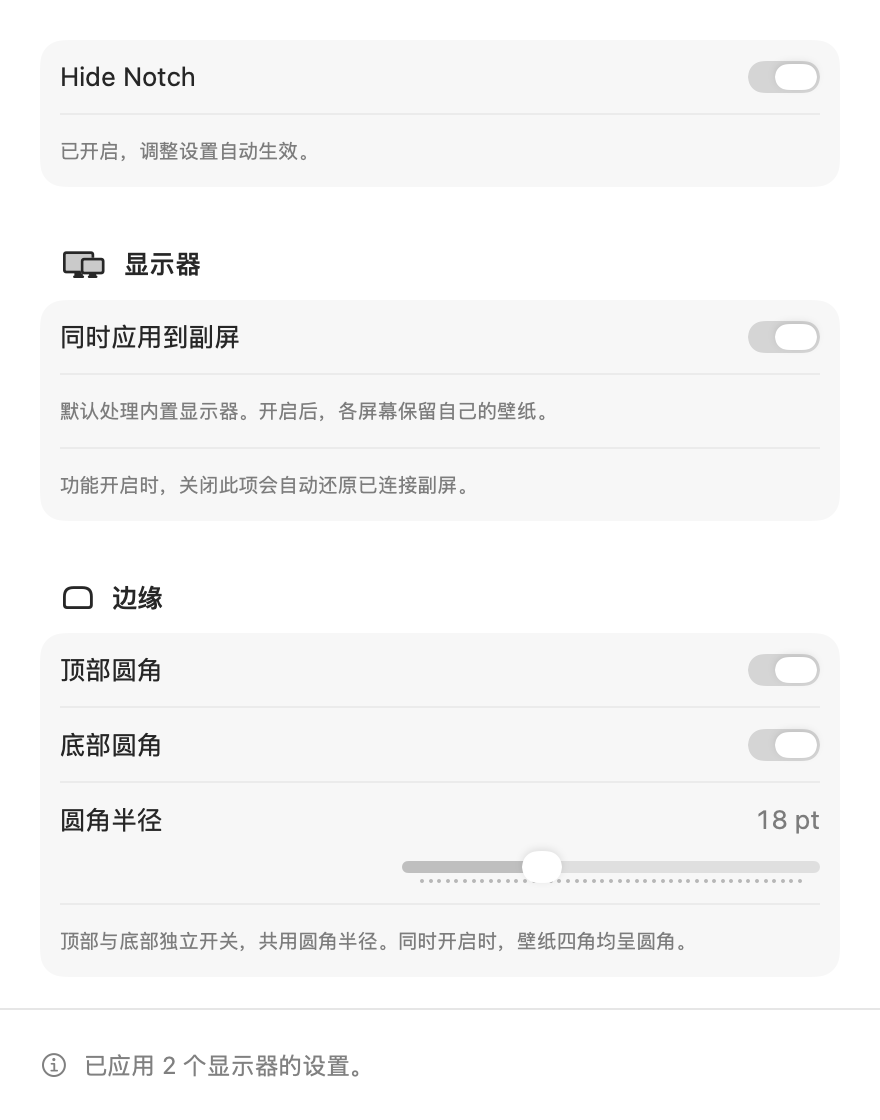
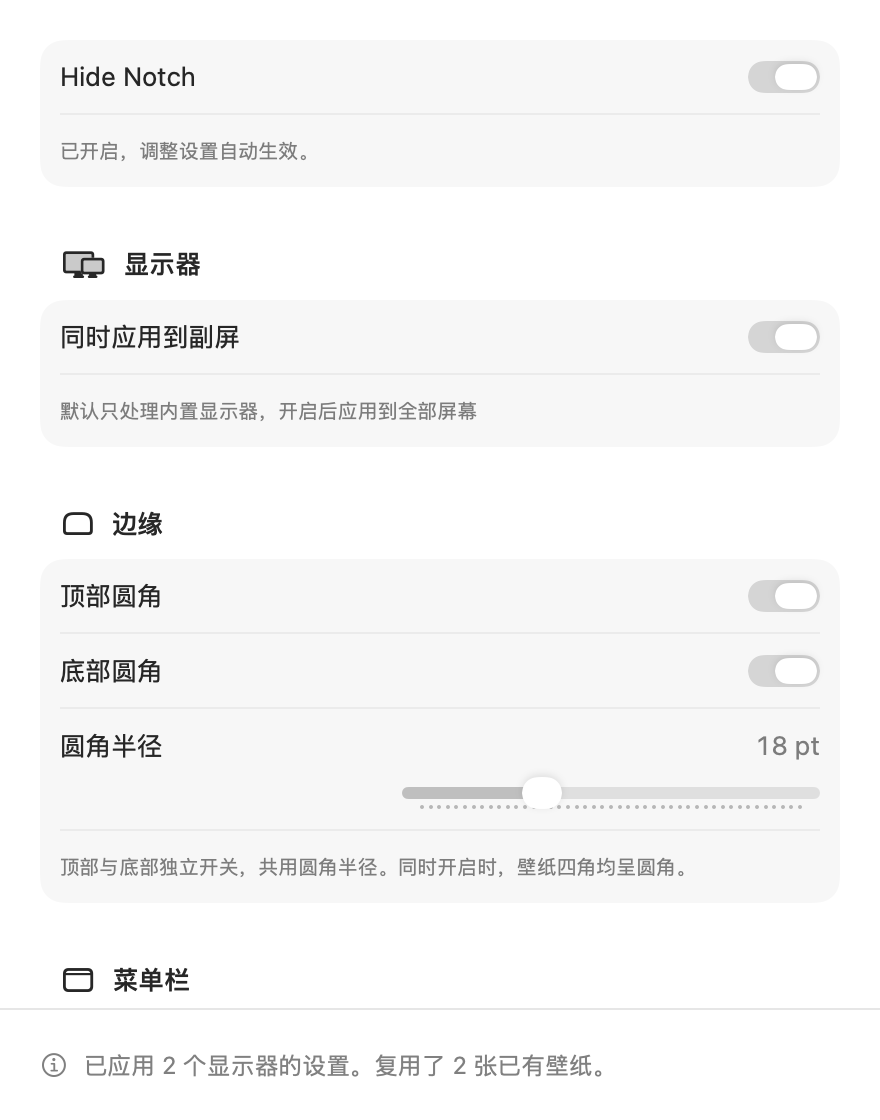
Simplify display description and remove redundant setting hints

diff --git a/Sources/NotchHide/SettingsView.swift b/Sources/NotchHide/SettingsView.swift
@@ -38,9 +38,7 @@ struct SettingsView: View {
                 Section {
                     Toggle("同时应用到副屏", isOn: $model.settings.includeOtherDisplays)
                         .toggleStyle(.switch)
-                    Text("\(model.primaryDescription)。开启后，各屏幕保留自己的壁纸。")
-                        .font(.caption).foregroundStyle(.secondary)
-                    Text("功能开启时，关闭此项会自动还原已连接副屏。")
+                    Text("默认只处理内置显示器，开启后应用到全部屏幕")
                         .font(.caption).foregroundStyle(.secondary)
                 } header: {
                     Label("显示器", systemImage: "display.2")
@@ -76,12 +74,6 @@ struct SettingsView: View {
                 }
             }
             .disabled(!model.isEnabled)
-            Section {
-                Text("开启后设置自动生效，滑块停止拖动后更新。退出软件会保留效果。")
-                    .font(.caption).foregroundStyle(.secondary)
-                Text("仅处理各屏幕的当前桌面，暂不自动同步多个桌面。菜单栏的实际材质由系统决定。")
-                    .font(.caption).foregroundStyle(.secondary)
-            }
         }
         .formStyle(.grouped)
         .disabled(model.isBusy)

diff --git a/Sources/NotchHide/SettingsModel.swift b/Sources/NotchHide/SettingsModel.swift
@@ -35,9 +35,6 @@ final class SettingsModel: ObservableObject {
     var canEnable: Bool { service != nil && !isBusy && !isUpdatePending && !targetDisplays.isEmpty }
     // 即使壁纸无法读取，已经开启的效果仍可尝试关闭。
     var canToggle: Bool { service != nil && !isBusy && (isEnabled || canEnable) }
-    var primaryDescription: String {
-        displays.contains(where: \.isBuiltIn) ? "默认处理内置显示器" : "默认处理系统主显示器"
-    }
 
     /// 只刷新显示器和运行状态；启动、拔插或切换桌面时不主动修改壁纸。
     func refreshDisplays() {
